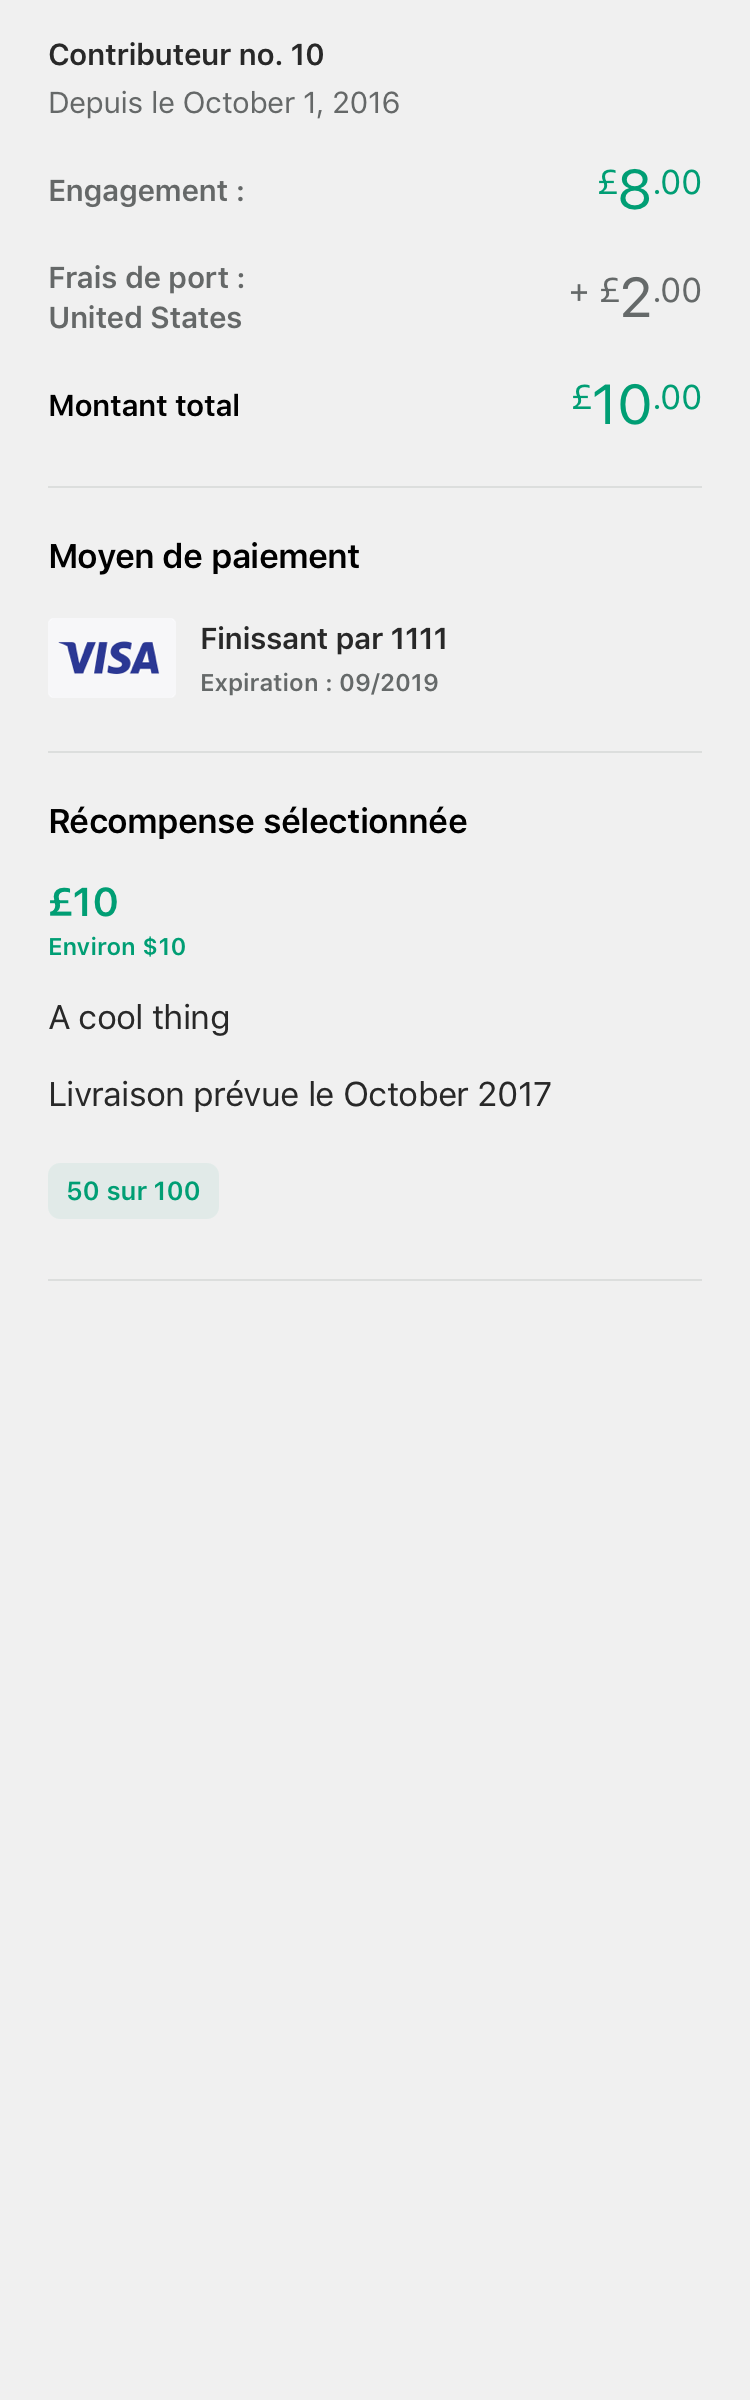
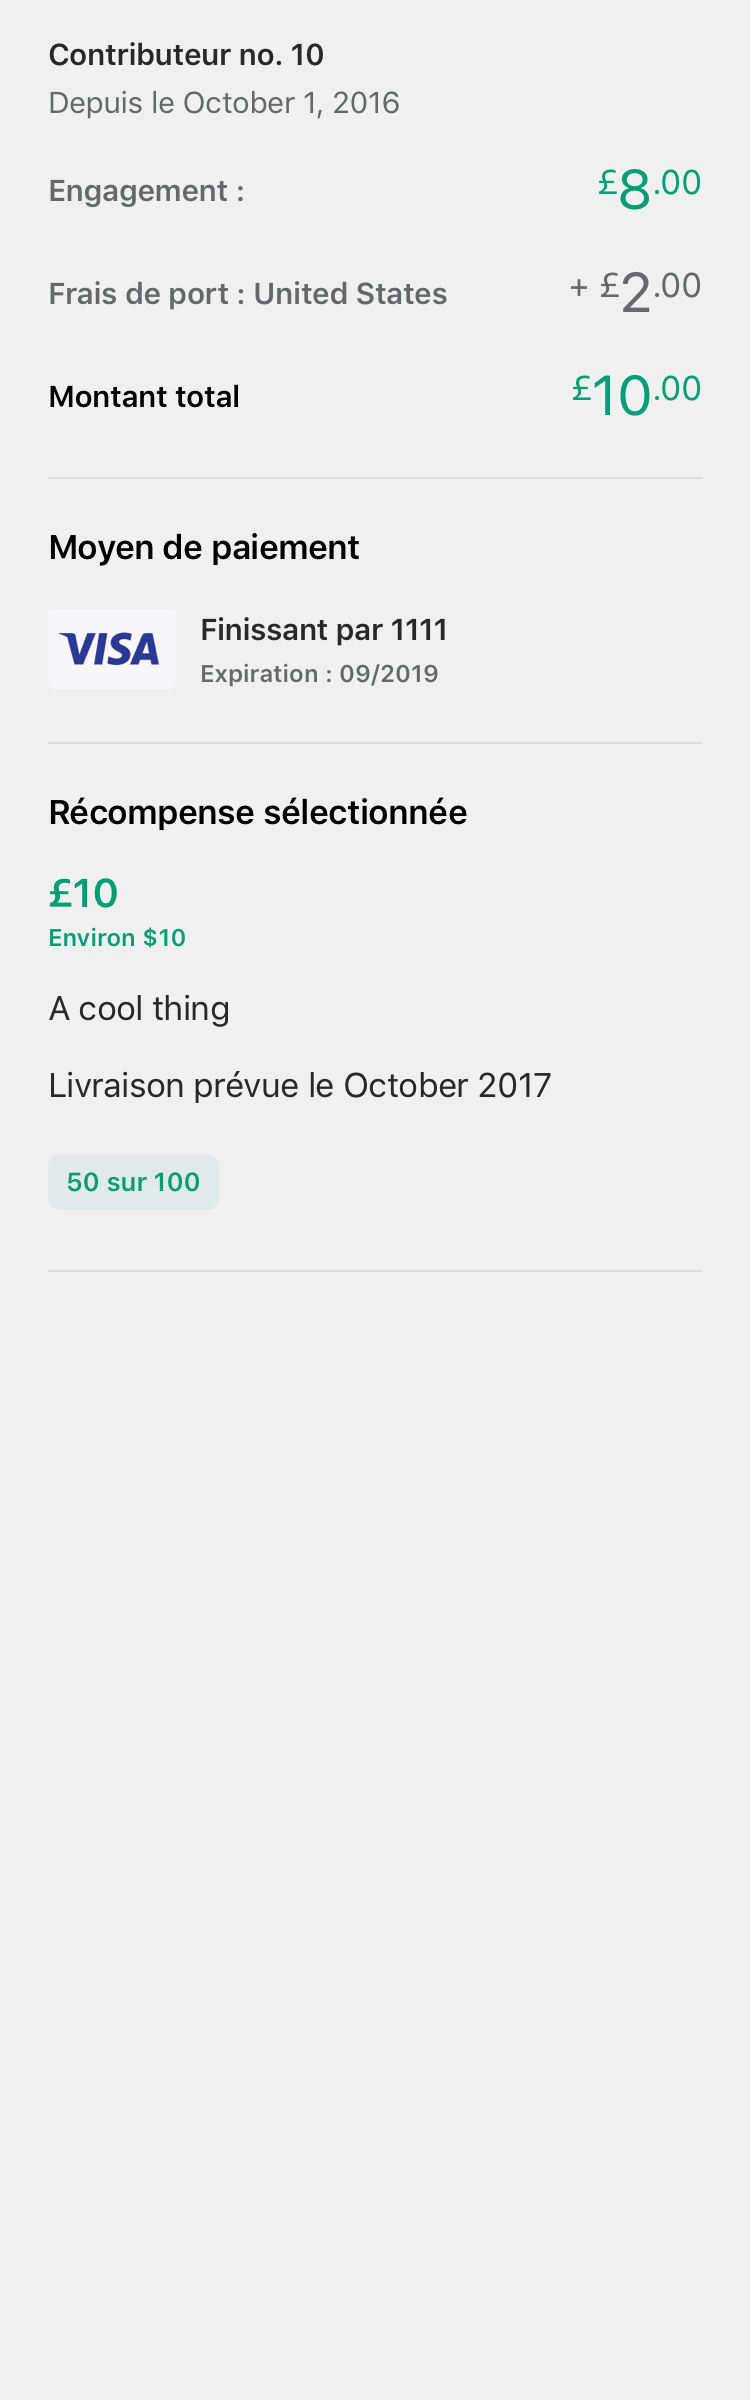
Fix snapshots

diff --git a/Kickstarter-iOS/Views/Controllers/PledgeAmountSummaryViewController.swift b/Kickstarter-iOS/Views/Controllers/PledgeAmountSummaryViewController.swift
@@ -81,6 +81,9 @@ final class PledgeAmountSummaryViewController: UIViewController {
     _ = ([self.pledgeLabel, self.pledgeAmountLabel], self.pledgeAmountStackView)
       |> ksr_addArrangedSubviewsToStackView()
 
+    self.pledgeAmountLabel.setContentHuggingPriority(.required, for: .horizontal)
+    self.shippingAmountLabel.setContentHuggingPriority(.required, for: .horizontal)
+
     _ = ([self.shippingLocationLabel, self.shippingAmountLabel], self.shippingLocationStackView)
       |> ksr_addArrangedSubviewsToStackView()
 
